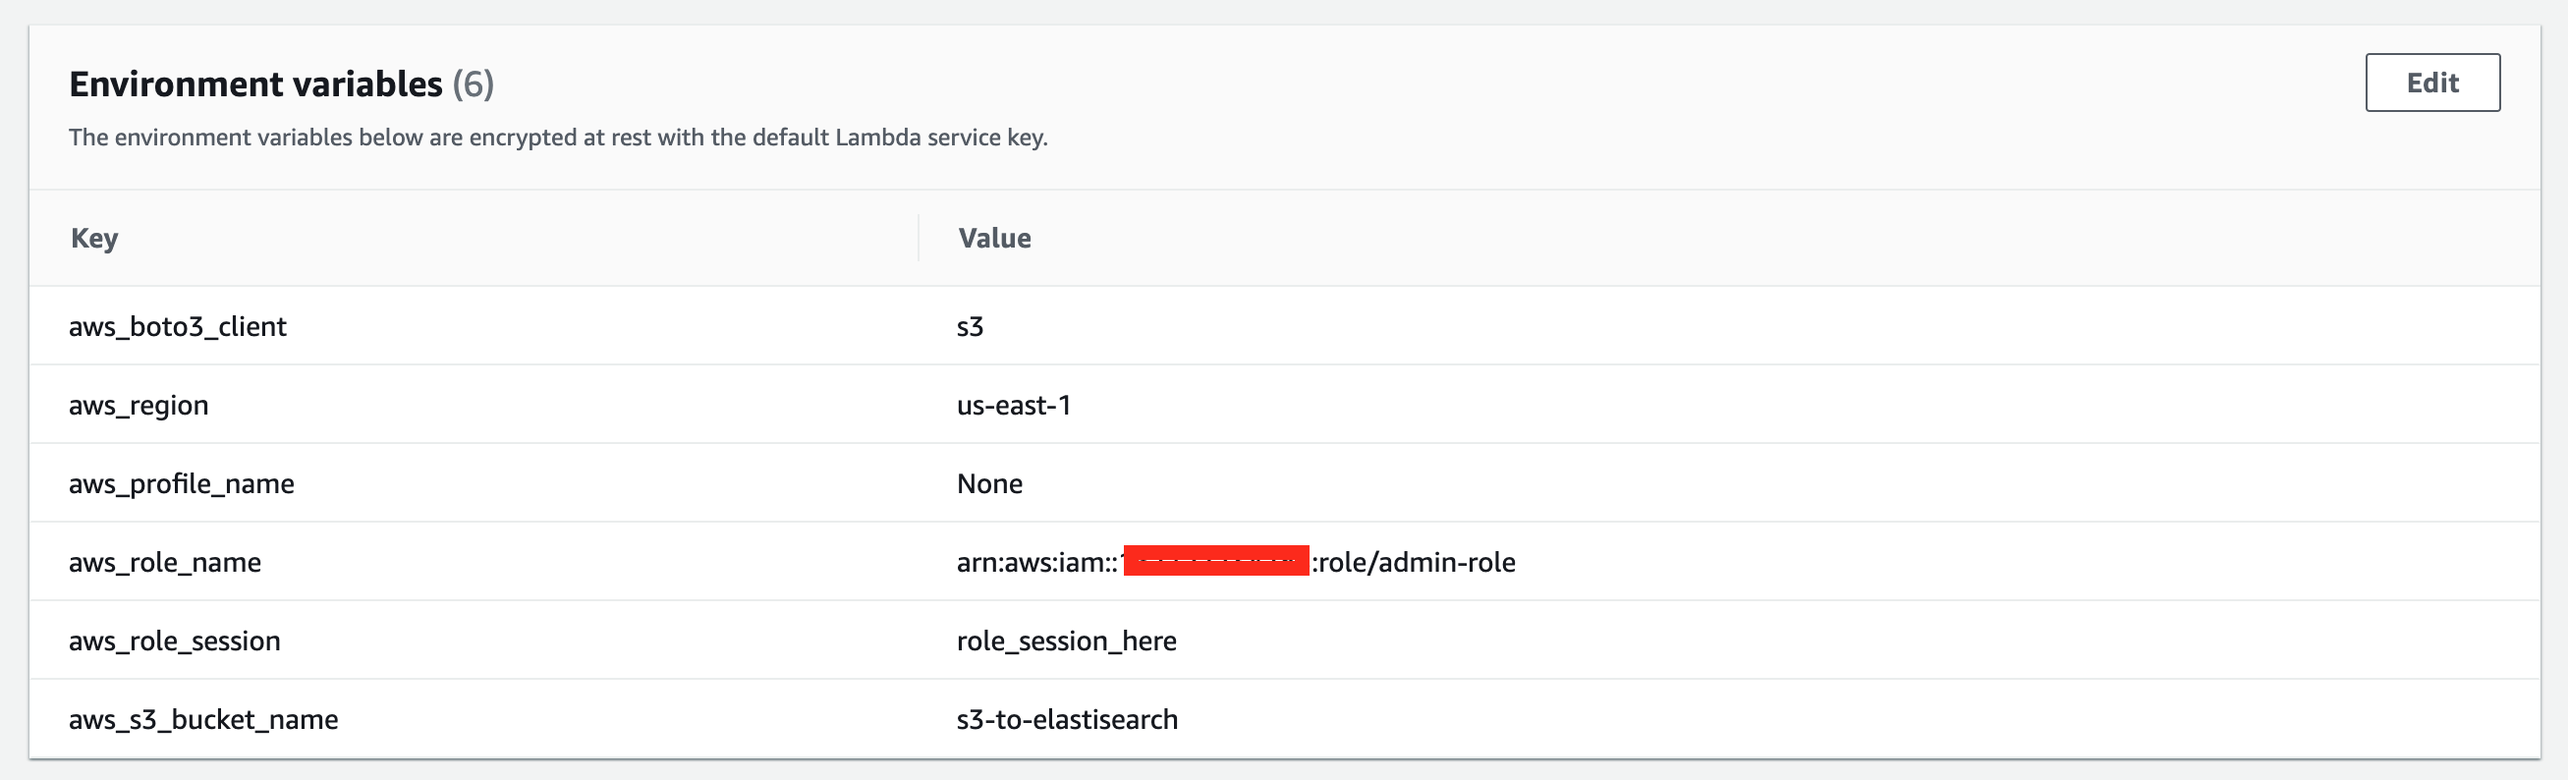
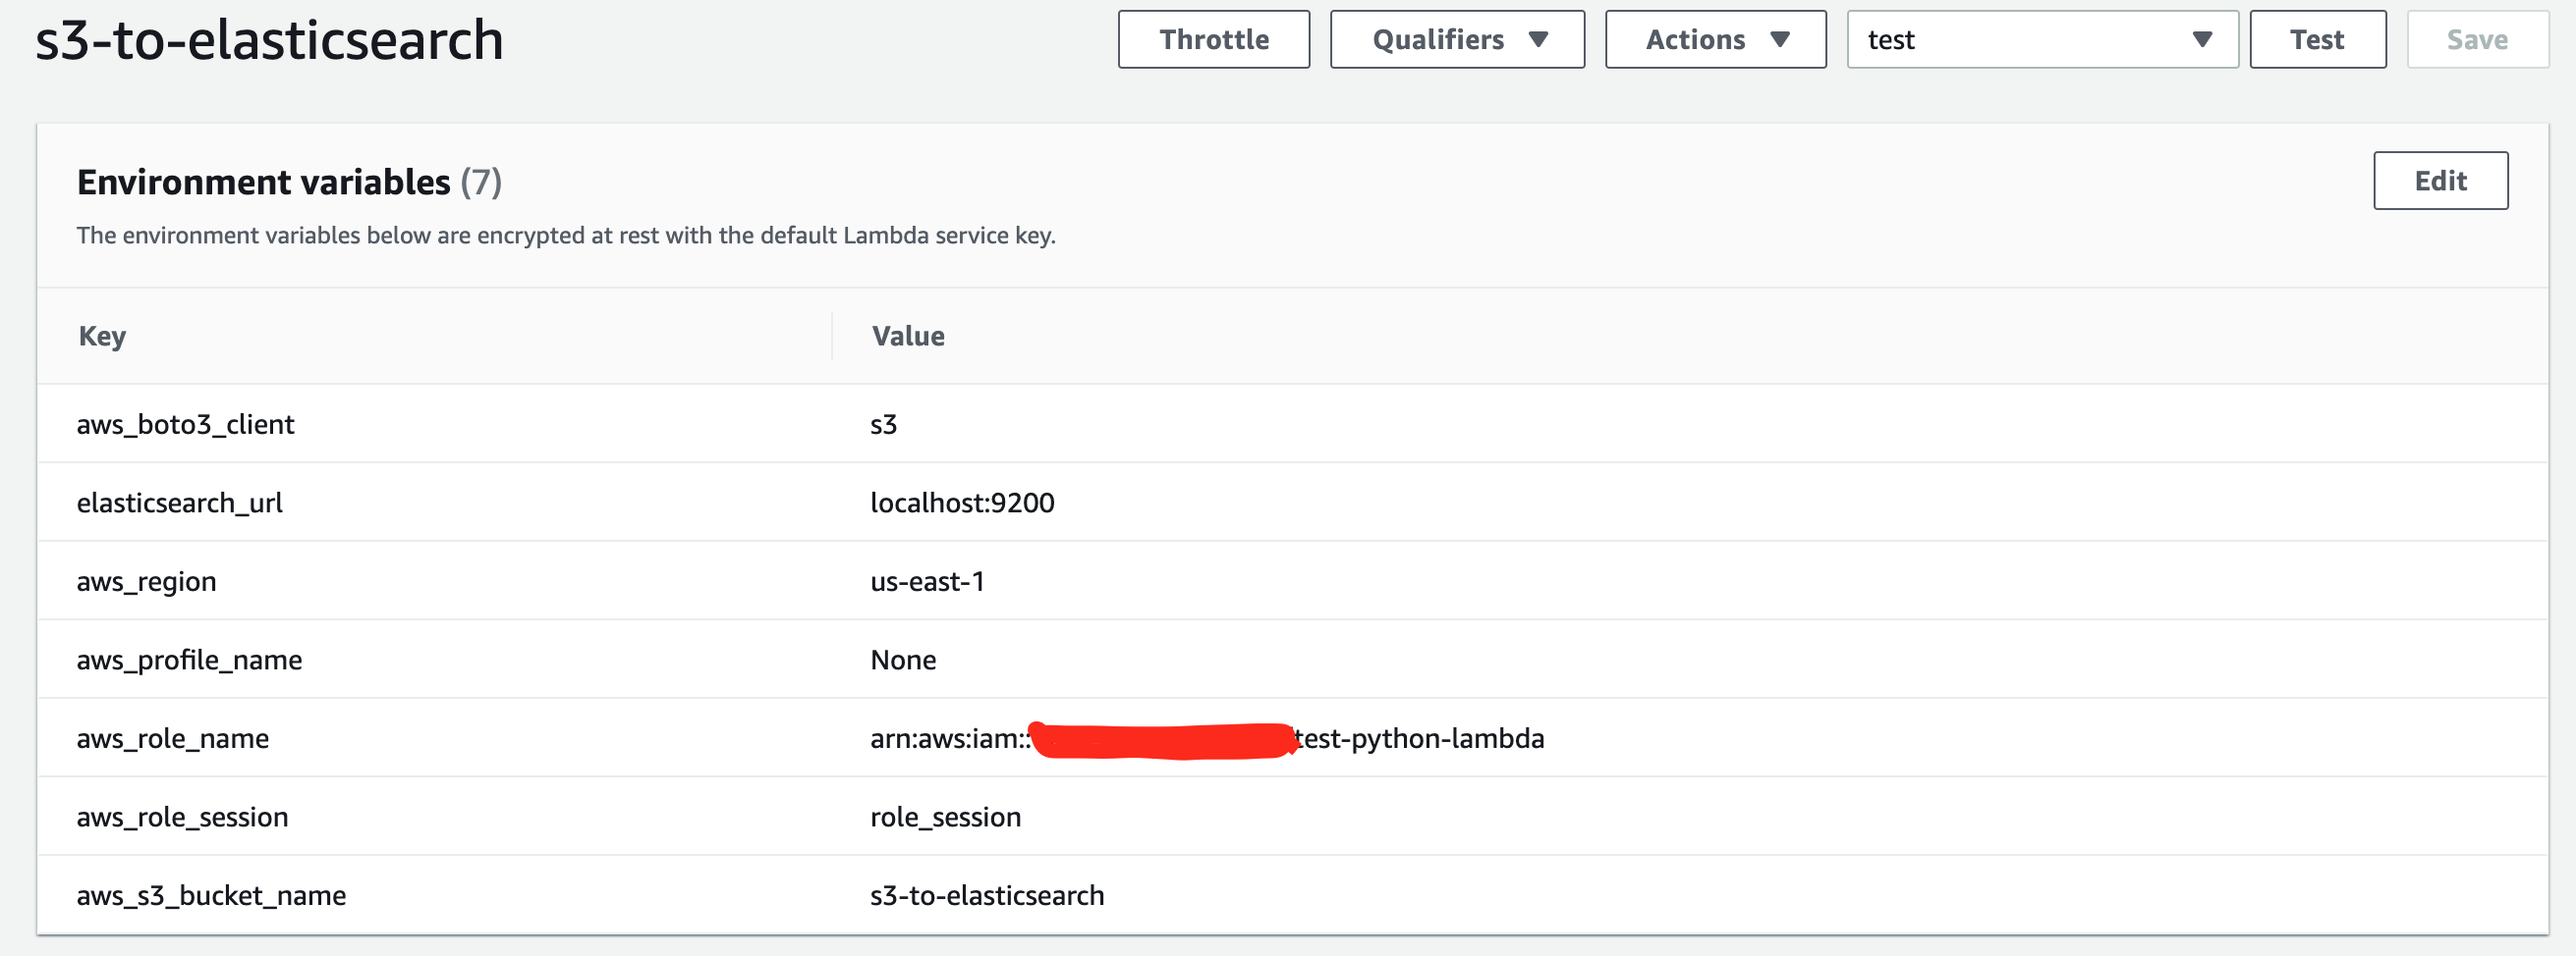
Add IAM roles/policies; EC-URL

diff --git a/s3-to-elastisearch.py b/s3-to-elastisearch.py
@@ -109,7 +109,7 @@ def s3_objects(aws_auth, s3_bucket_name):
     if bucket_name:
         try:
             for key in s3.list_objects(Bucket=s3_bucket_name)['Contents']:
-                print(key['Key'])
+                # print(key['Key'])
                 key_name = key['Key']
                 if (key_name.endswith('.gz')) or (key_name.endswith('.tar.gz')):
                     retr = s3.get_object(Bucket=s3_bucket_name, Key=key_name)
@@ -117,9 +117,9 @@ def s3_objects(aws_auth, s3_bucket_name):
                     content = GzipFile(None, 'rb', fileobj=bytestream).read().decode('utf-8')
                     s3objects.append(content)
                 else:
-                    response = s3.get_object(Bucket=s3_bucket_name, Key=key_name)
-                    content = response['Body'].read().decode("utf-8").replace("'", '"')
-                    s3objects.append(content)
+                    data = s3.get_object(Bucket=s3_bucket_name, Key=key_name)
+                    contents = data['Body'].read()
+                    s3objects.append(contents)
 
                 logger.info('SUCCESS: Retrieved object(s) from S3 {0} bucket'.format(s3_bucket_name))
         except Exception as e:
@@ -143,7 +143,9 @@ def sending_data_to_elastisearch(es_url, docData):
                                 retries=False,
                                 timeout=30)
 
-        print('Response status: ', response.status, "\nResponse data: ", response.data.decode('utf-8'))
+        # print('Response status: ', response.status, "\nResponse data: ", response.data.decode('utf-8'))
+
+        logger.error('ERROR [response status]: {0}'.format(response.status))
 
         if response.status == 201:
             logger.info('INFO: Response status: {0}\nResponse data: {1}'.format(response.status,
@@ -159,6 +161,7 @@ def sending_data_to_elastisearch(es_url, docData):
         logger.error('ERROR: {0}'.format(str(e)))
         logger.error('ERROR: Unable to index line:"{0}"'.format(str(docData['content'])))
         print(e)
+        exit(1)
 
     return sending_data_to_elastisearch
 
@@ -190,13 +193,18 @@ def lambda_handler(event, context):
     }
 
     s3_bucket_name = os.environ['aws_s3_bucket_name']
+    es_url = os.environ['elasticsearch_url']
 
     logger.info("Received event: " + json.dumps(event, indent=2))
 
     s3objects = s3_objects(aws_auth, s3_bucket_name)
-   
+
     for obj in s3objects:
-        reader = csv.DictReader(StringIO(obj), fieldnames=None, restkey=None, restval=None, dialect='excel')
+        reader = csv.DictReader(StringIO(obj.decode('utf-8')),
+                                fieldnames=None,
+                                restkey=None,
+                                restval=None,
+                                dialect='excel')
         for row in reader:
             json_out = json.loads(json.dumps(row))
 

diff --git a/README.md b/README.md
@@ -79,6 +79,7 @@ $ python3 s3-to-elastisearch.py --lambda=False --role-name="role_here" --role-se
 To use this python script as AWS Lambda, you must add the next environment variables inside AWS Lambda:
 
 - aws_s3_bucket_name - Set AWS S3 bucket name where the CSV files will be located.
+- elasticsearch_url -  Set the URL where the ElasticSearch located is. For Ex: "localhost:9200".
 - aws_boto3_client - Set client for boto3.
 - aws_region - Set the region for AWS usage.
 - aws_profile_name - The name of a profile to use. It can be skipped if planned to use the AWS IAM role with session parameters (parameters below).
@@ -86,6 +87,8 @@ To use this python script as AWS Lambda, you must add the next environment varia
 - aws_role_session - If aws_profile_name is not set, this parameter MUST be specified as AWS IAM session for aws_role_name.
 
 ![Lambda_envs.png](https://github.com/SebastianUA/lambda-s3-elastisearch/blob/master/additional_files/pics/Lambda_envs.png)
+
+The AWS IAM policies and roles located at `./additional_files/iam` folder and can be used for that script.
 
 
 ## Authors
